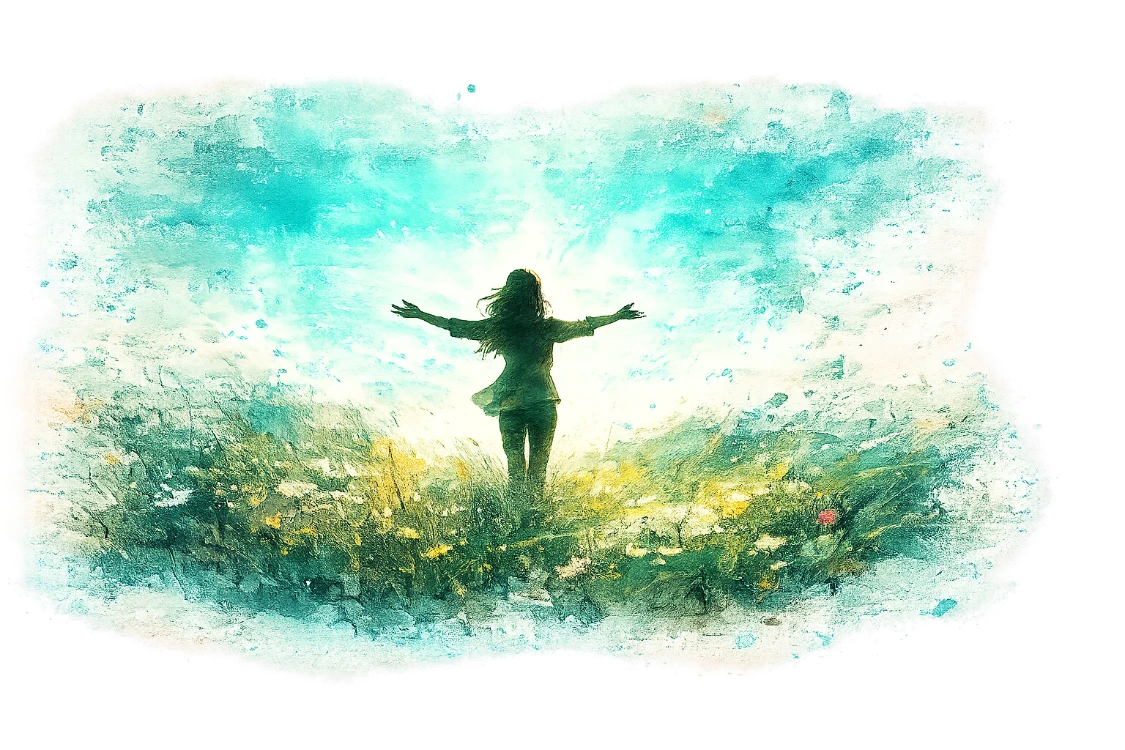
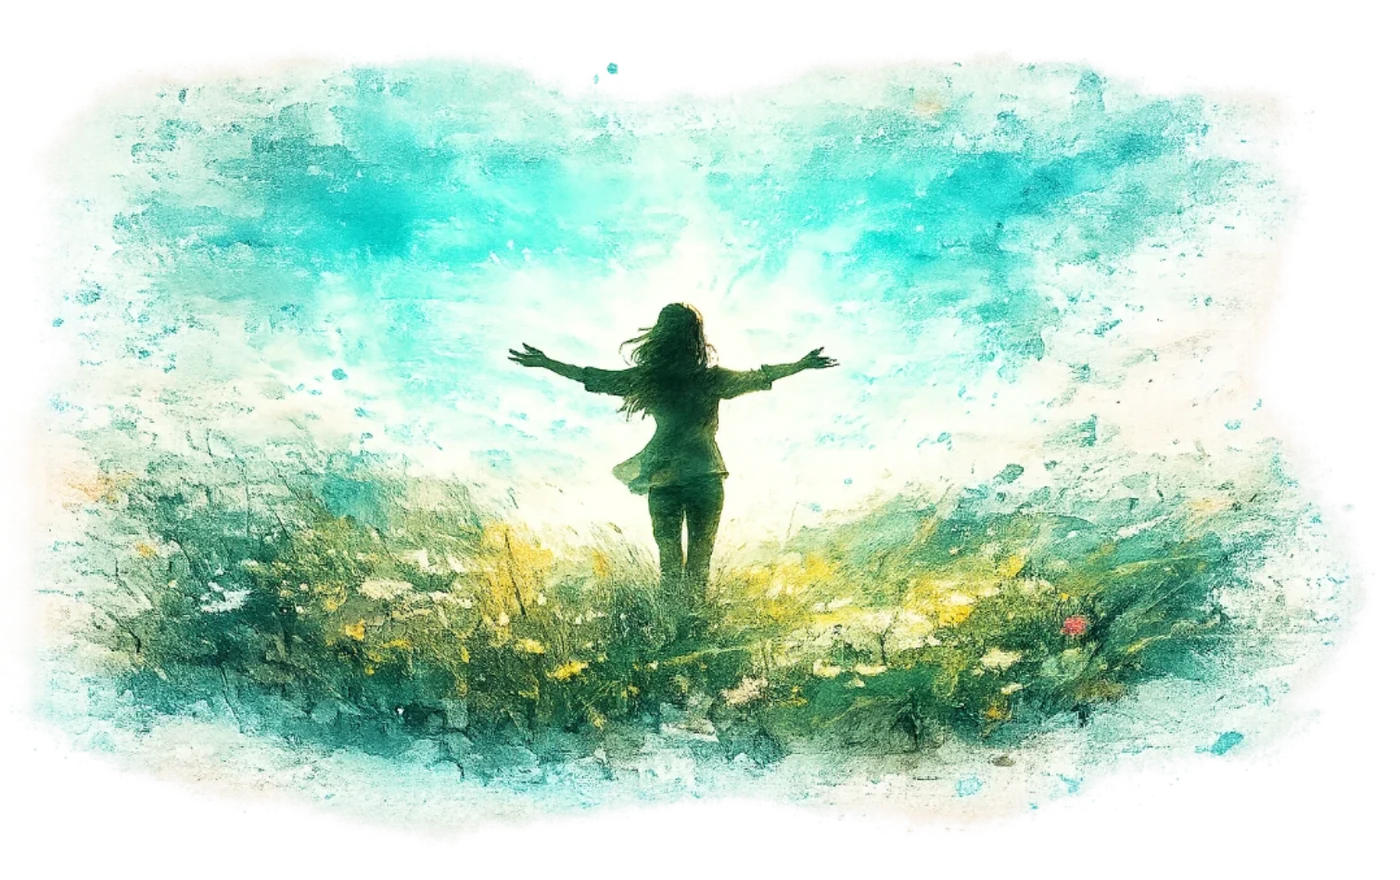
Archetype art: replace all 11 hero images (clean transparent) + Quiet Authority black-bg handling
Andrea supplied fresh watercolor art for all 11 archetypes. Converted the PNGs to
WebP-with-alpha under the existing brand-haus-hero-<slug>.jpg names (drop-in, no
reference changes), capped 1400px wide. Fixes the two flattened-checkerboard images
(trail-forger, quiet-authority) and refreshes the other nine.

Quiet Authority's source has an opaque BLACK background (couldn't be cut out), so
its frame now sits on black to blend seamlessly instead of the old scale(1.4)
checkerboard-hiding crop: brand-haus-results.js TIGHT_CROP_SLUGS -> DARK_BG_SLUGS
with a --onblack class (brand-haus.css), and the OS DNA card gets .dna-img--onblack
for that slug. Live-verified: Quiet Authority blends on the dark OS panel; the
transparent archetypes (e.g. Trail Forger) fade in cleanly with no checkerboard.

diff --git a/assets/brand-haus-results.js b/assets/brand-haus-results.js
@@ -88,18 +88,17 @@
   // live "Your Brand DNA" step and the exported Brand DNA Report, where
   // this box's aspect ratio matches the image's own aspect ratio exactly
   // (1536x1024, i.e. 3:2) so object-fit:cover has zero margin to crop.
-  // TIGHT_CROP_SLUGS gets a modifier class that scales the image in just
-  // enough to push that checkerboard border outside the visible frame —
-  // scoped to this one profile only so the other 10, already-clean hero
-  // photos don't get an unnecessary/over-aggressive crop.
-  var TIGHT_CROP_SLUGS = ["quiet-authority"];
+  // DARK_BG_SLUGS: this profile's hero art has an opaque BLACK background (its
+  // source couldn't be cleanly cut out), so its frame gets a black background to
+  // blend seamlessly — the other 10 are transparent and fade into the frame color.
+  var DARK_BG_SLUGS = ["quiet-authority"];
 
   function renderHeroImage(ui, profile) {
     var map = window.BrandHausHeroImages || {};
     var slug = profileSlug(profile);
     var src = map[slug];
     if (!src) return null;
-    var wrapClass = "bh-chapter__hero-image" + (TIGHT_CROP_SLUGS.indexOf(slug) !== -1 ? " bh-chapter__hero-image--tight-crop" : "");
+    var wrapClass = "bh-chapter__hero-image" + (DARK_BG_SLUGS.indexOf(slug) !== -1 ? " bh-chapter__hero-image--onblack" : "");
     var wrap = ui.el("div", { class: wrapClass });
     var img = ui.el("img", { src: src, alt: profile.name + " brand identity artwork" });
     img.addEventListener("error", function () { wrap.style.display = "none"; });

diff --git a/assets/brand-haus.css b/assets/brand-haus.css
@@ -2597,14 +2597,12 @@
   object-fit: cover;
   display: block;
 }
-/* See TIGHT_CROP_SLUGS in brand-haus-results.js — this profile's hero
-   photo has a checkerboard canvas baked into the source file itself,
-   and the box above matches the photo's own aspect ratio exactly (no
-   margin for object-fit:cover to crop away on its own). Scaling the
-   image up within the box's existing overflow:hidden pushes that
-   checkerboard border outside the visible frame on every side. */
-.bh-chapter__hero-image--tight-crop img {
-  transform: scale(1.4);
+/* See DARK_BG_SLUGS in brand-haus-results.js — this profile's hero art has an
+   opaque black background (its source couldn't be cleanly cut out), so its frame
+   is black to blend seamlessly; the other 10 are transparent and fade into the
+   frame's own color. */
+.bh-chapter__hero-image--onblack {
+  background: #000;
 }
 .bh-chapter__heading {
   margin-bottom: 24px;
